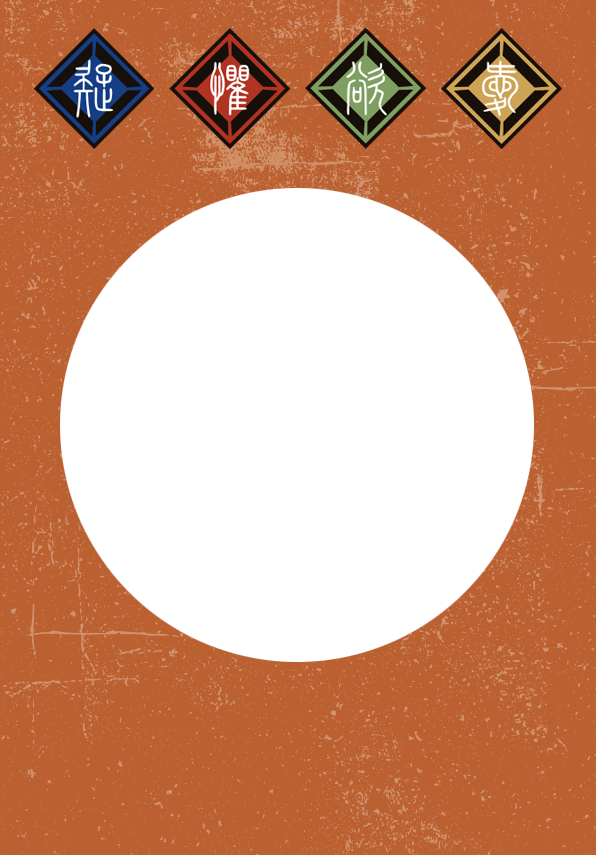
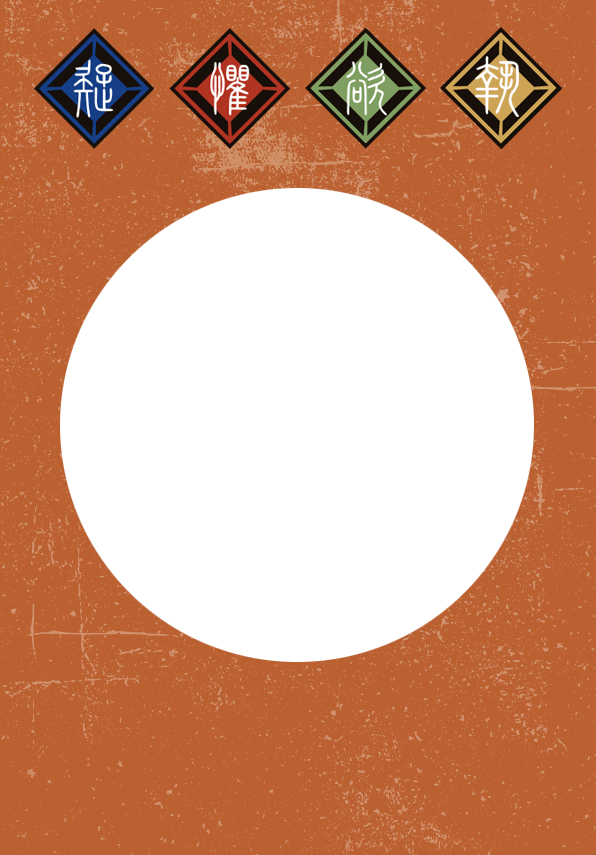
0904final

Changed region(s): [[0.7248, 0.0304, 0.9362, 0.1825]]

diff --git a/mission04-11.html b/mission04-11.html
@@ -77,7 +77,7 @@
             <div class="modal-dialog modal-dialog-centered" role="document">
               <div class="modal-content">
                 <div class="modal-body">
-                  <p class="text-center mb-0">愛</p>
+                  <p class="text-center mb-0">執</p>
                   
                 </div>
               </div>
